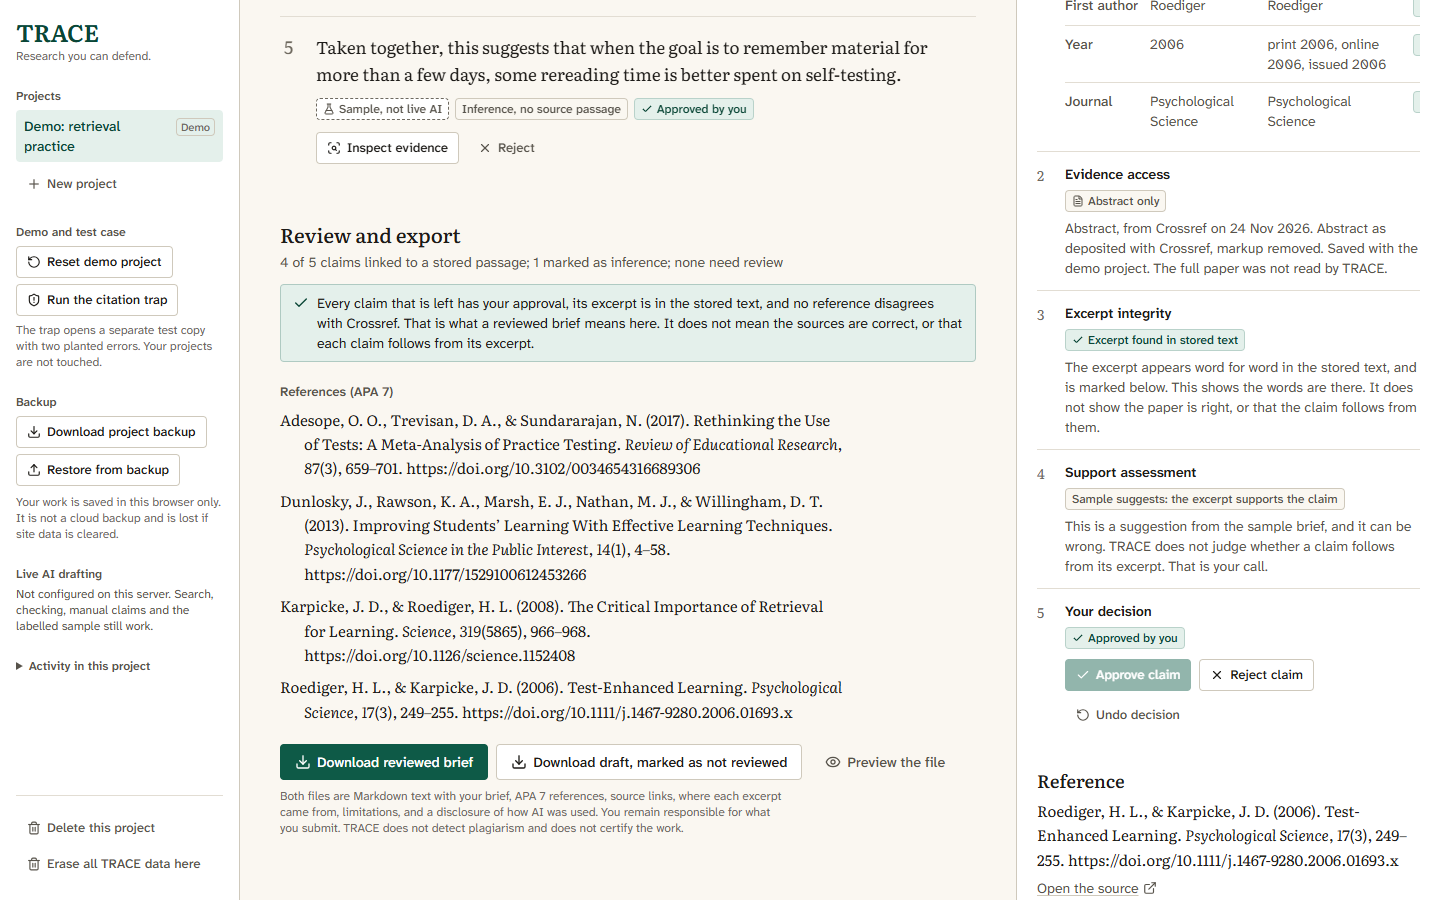
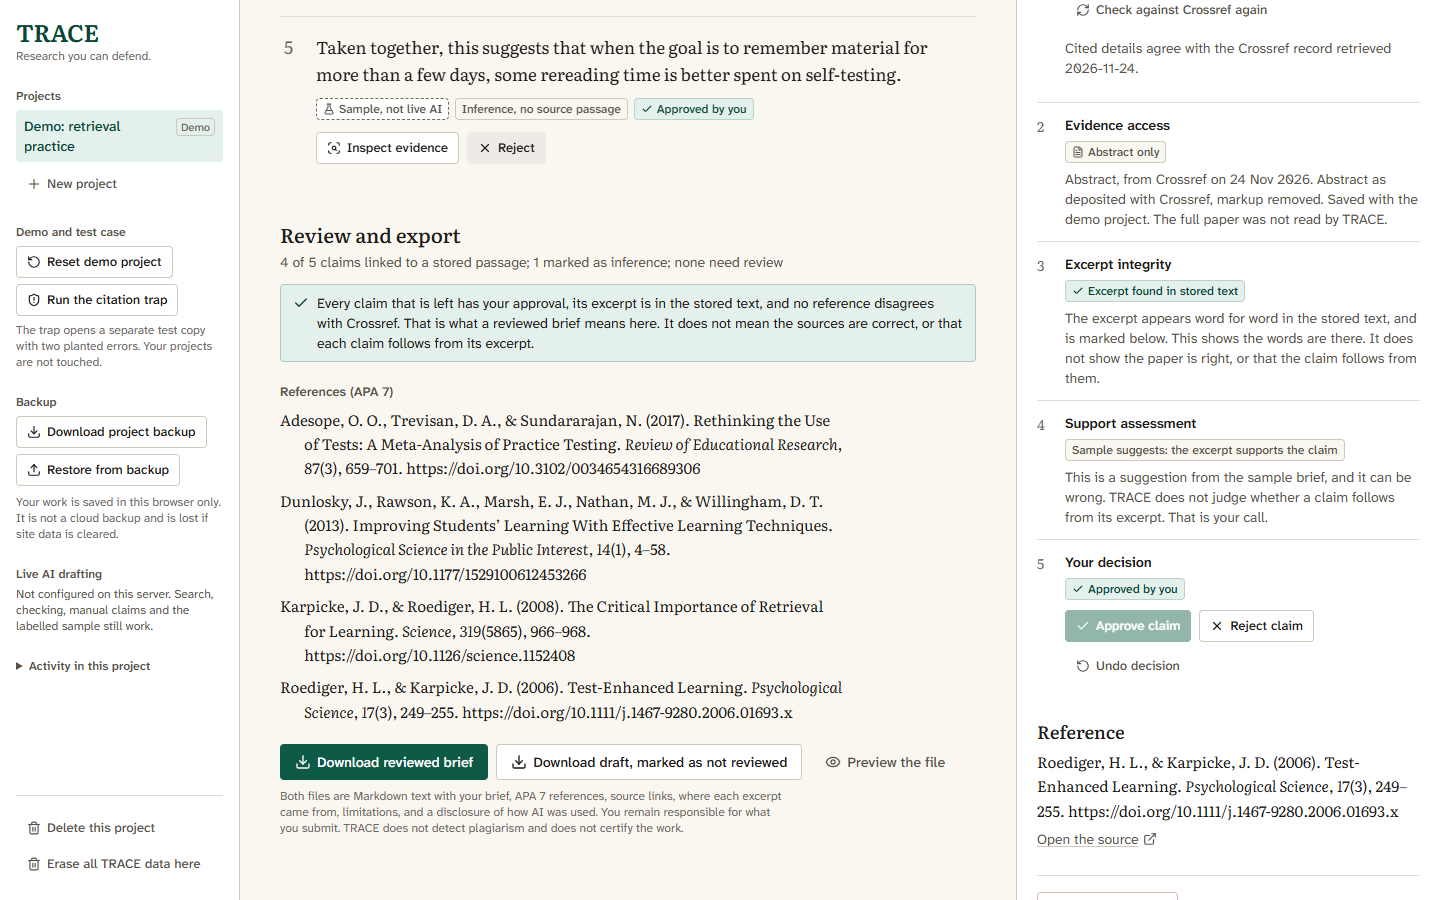
Tidy the Claim Inspector for the trap's identity moment
Reference identity is a stacked list of only the disagreeing details
inside the narrow inspector, each claim opens at the top of the panel,
and open points on an already approved claim read "Still open".
QA report records the re-run.

Changed region(s): [[0.7188, 0.0, 1.0, 0.9956], [0.9688, 0.0933, 1.0, 0.1244], [0.3438, 0.1556, 0.375, 0.1867]]

diff --git a/src/components/IdentityPanel.tsx b/src/components/IdentityPanel.tsx
@@ -59,7 +59,35 @@ export function IdentityPanel({ source, compact }: { source: Source; compact?: b
       <p className="text-sm text-ink-soft">{identity.summary}</p>
       {source.testCorruption && <p className="rounded border border-bad/30 bg-bad-tint px-2.5 py-1.5 text-sm text-ink">{source.testCorruption}</p>}
 
-      {identity.fields.length > 0 && (
+      {/* In the narrow inspector, only the details that need attention are listed, stacked rather than tabulated. */}
+      {compact && (
+        <ul className="space-y-2">
+          {identity.fields
+            .filter((f) => f.verdict !== "match")
+            .map((f) => {
+              const v = VERDICT[f.verdict];
+              return (
+                <li key={f.field} className="rounded border border-line bg-canvas/60 p-2.5 text-sm">
+                  <div className="flex flex-wrap items-center gap-2">
+                    <span className="font-semibold text-ink">{FIELD_LABEL[f.field]}</span>
+                    <Chip tone={v.tone} icon={v.icon}>
+                      {v.label}
+                    </Chip>
+                  </div>
+                  <p className="mt-1.5 break-words">
+                    You cite <span className="font-medium text-ink">{f.cited}</span>. Crossref records <span className="font-medium text-ink">{f.registry}</span>.
+                  </p>
+                  <p className="mt-1 text-xs">{f.message}</p>
+                  <Button size="sm" className="mt-2" onClick={() => update((p) => takeRegistryValue(p, source.id, f.field), `Replaced the cited ${FIELD_LABEL[f.field].toLowerCase()} of “${source.cited.title}” with Crossref's value.`)}>
+                    Use Crossref&rsquo;s {FIELD_LABEL[f.field].toLowerCase()}
+                  </Button>
+                </li>
+              );
+            })}
+        </ul>
+      )}
+
+      {!compact && identity.fields.length > 0 && (
         <div className="overflow-x-auto">
           <table className="w-full min-w-[26rem] border-collapse text-sm">
             <thead>

diff --git a/src/components/ClaimInspector.tsx b/src/components/ClaimInspector.tsx
@@ -126,7 +126,13 @@ export function ClaimInspector({ claimId, onClose }: { claimId: string; onClose:
   const { update } = useStore();
   const [selection, setSelection] = useState("");
   const [confirm, setConfirm] = useState(false);
+  const root = useRef<HTMLDivElement>(null);
   const claim = project.claims.find((c) => c.id === claimId);
+
+  // Each claim opens at the top of the panel, wherever the previous one was scrolled to.
+  useEffect(() => {
+    root.current?.closest("aside, dialog")?.scrollTo({ top: 0 });
+  }, []);
   // The editing fields start open when there is something to fix or fill in, and closed when the claim is in order.
   const [editing, setEditing] = useState(() => {
     if (!claim) return false;
@@ -156,7 +162,7 @@ export function ClaimInspector({ claimId, onClose }: { claimId: string; onClose:
   const link = source ? sourceLink(source.doi, source.cited) : null;
 
   return (
-    <div className="flex flex-col">
+    <div ref={root} className="flex flex-col">
       <header className="flex items-start justify-between gap-3 border-b border-line px-5 pt-4 pb-3">
         <div>
           <h2 className="font-serif text-xl font-medium">Claim {i.number}</h2>
@@ -275,7 +281,7 @@ export function ClaimInspector({ claimId, onClose }: { claimId: string; onClose:
               {blocking.length > 0 && decision !== "rejected" && (
                 <ul className="list-disc space-y-0.5 pl-4 text-bad">
                   {blocking.map((b) => (
-                    <li key={b.code}>{b.message.replace(/^Claim \d+: /, "Before approving: ")}</li>
+                    <li key={b.code}>{b.message.replace(/^Claim \d+: /, decision === "approved" ? "Still open: " : "Before approving: ")}</li>
                   ))}
                 </ul>
               )}

diff --git a/docs/qa-report.md b/docs/qa-report.md
@@ -17,6 +17,8 @@ Machine: Windows 11, Node 22.21.0, npm 10.8.2. Browser tests in Microsoft Edge (
 | Live providers | `npm run smoke:live` | **passed**: 6 of 6 checks that ran; 1 **not run** (live AI: no key) |
 | Deck | `npm run deck`, then PowerPoint render | **passed**: 6 slides; all six rendered to PNG and read |
 
+**Re-run after the last interface adjustments, 24 November 2026, about 23:35 (+04:00):** typecheck **passed**, lint **passed**, unit tests **passed** 94 of 94, browser journeys **passed** 11 of 11 (which rebuilds the production app). `npm ci` and the live smoke test were **not run** again after those adjustments; they do not touch the files that changed.
+
 ### What the unit tests cover (94)
 
 - **DOI handling**: prefixes and case, suffix characters preserved, percent-encoding, invalid input, trailing-punctuation variant offered rather than applied, duplicate detection.
@@ -69,6 +71,8 @@ Captured by the browser tests into `docs/screenshots/` at 1440×900, 1366×768 a
 - The inspector opened at its checks rather than at the source passage, and scrolled the whole panel to the marked text. Reordered so the passage comes first and only the passage box scrolls.
 - On mobile the drawer's passage did not scroll to the marked words. Fixed.
 - A mobile screenshot caught the drawer mid-animation; screenshots now wait for animations to finish.
+- The reference-identity table was cramped inside the narrow inspector. There it is now a stacked list of only the details that need attention.
+- Opening a second claim kept the previous claim's scroll position. Each claim now opens at the top of the inspector.
 
 ## Not run, or not verified
 
